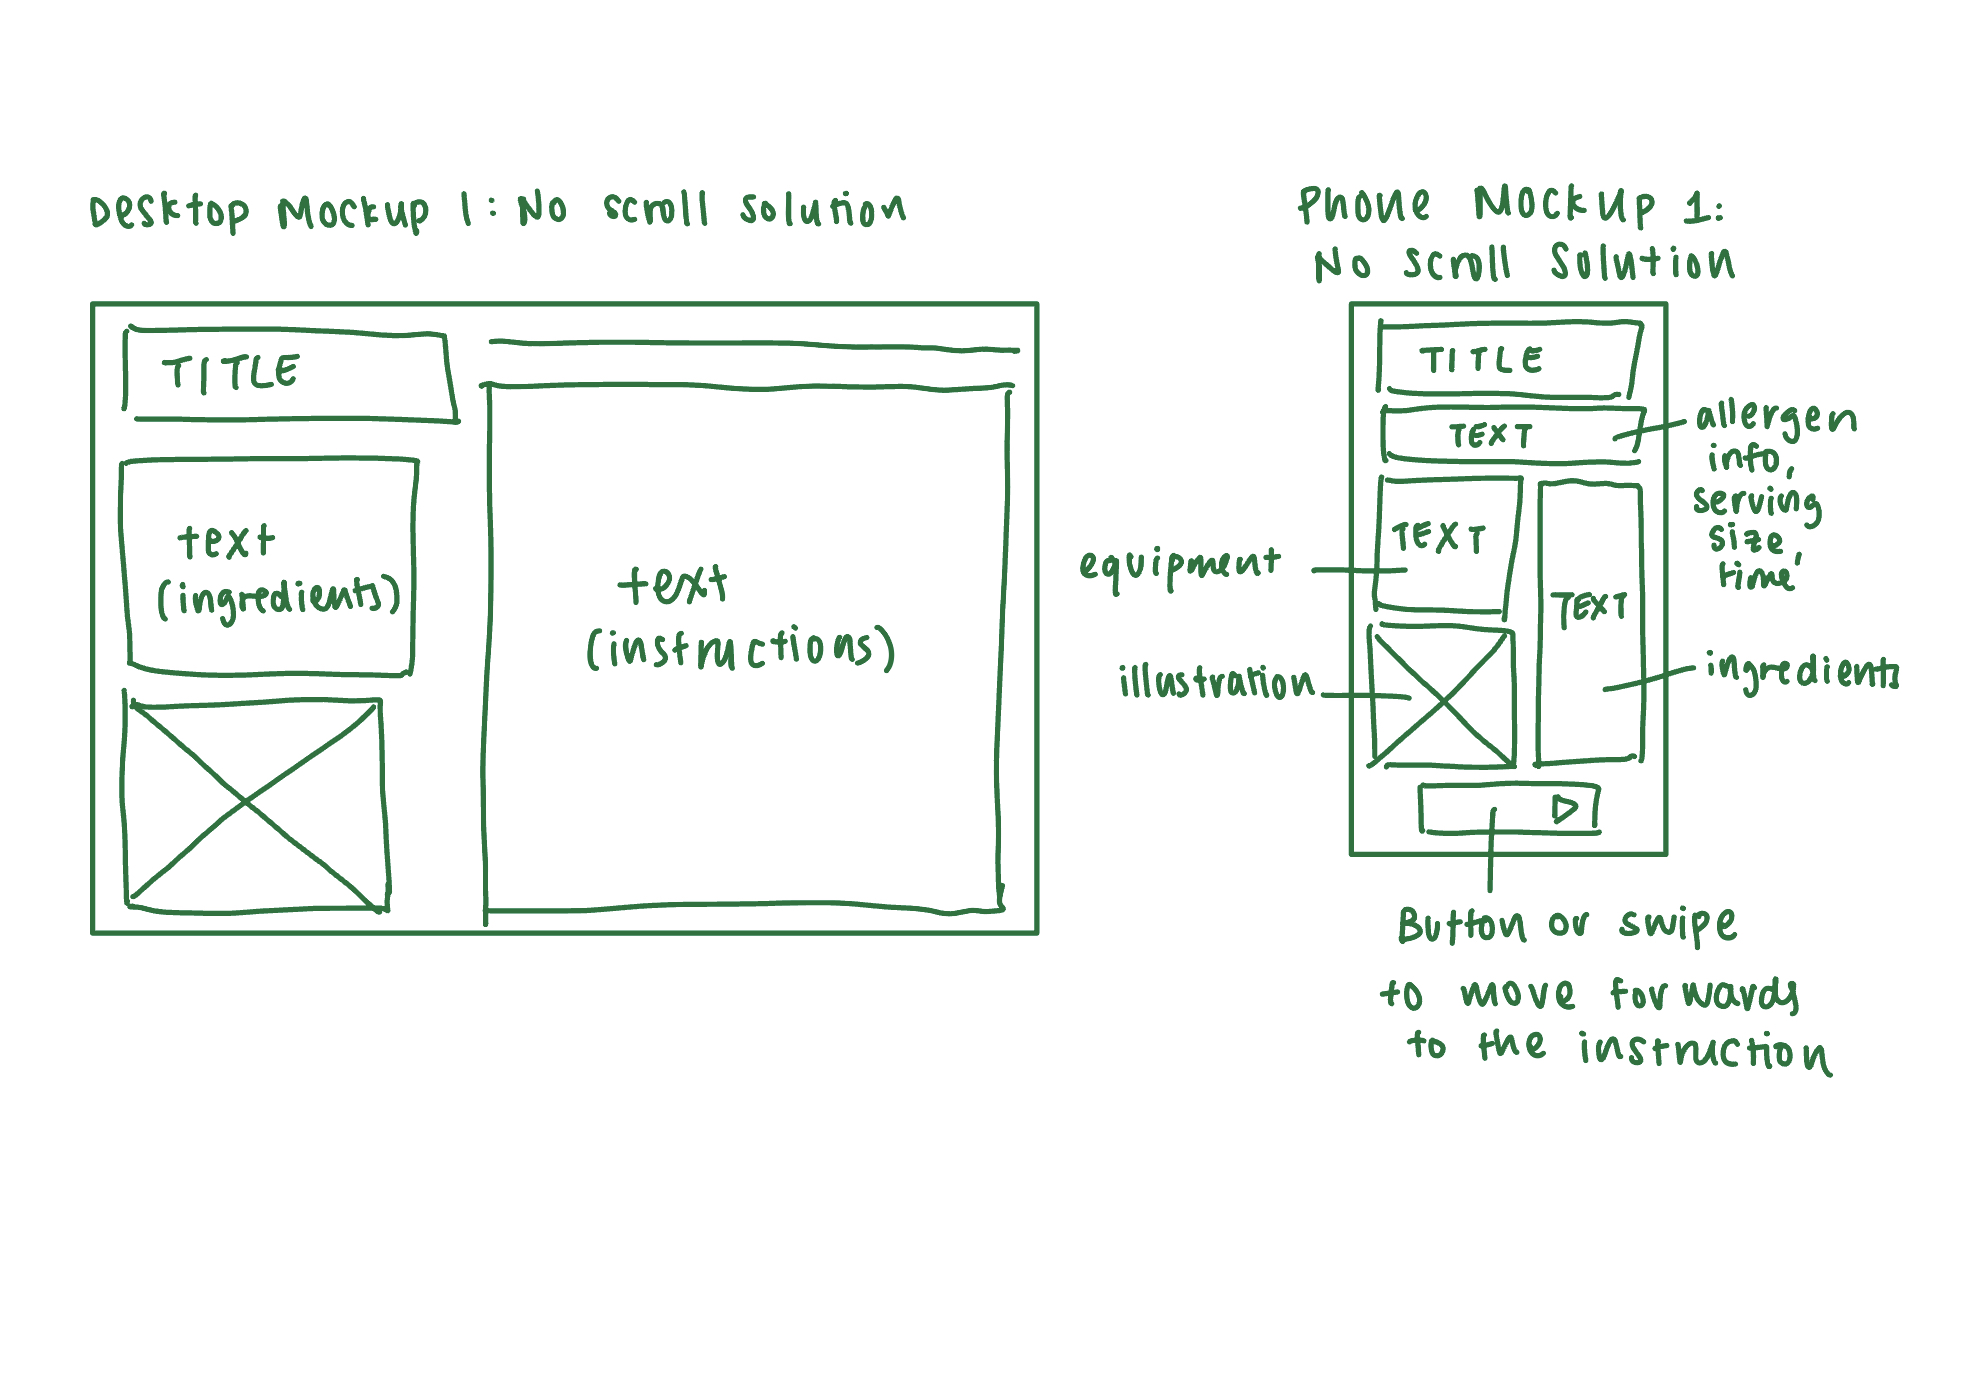
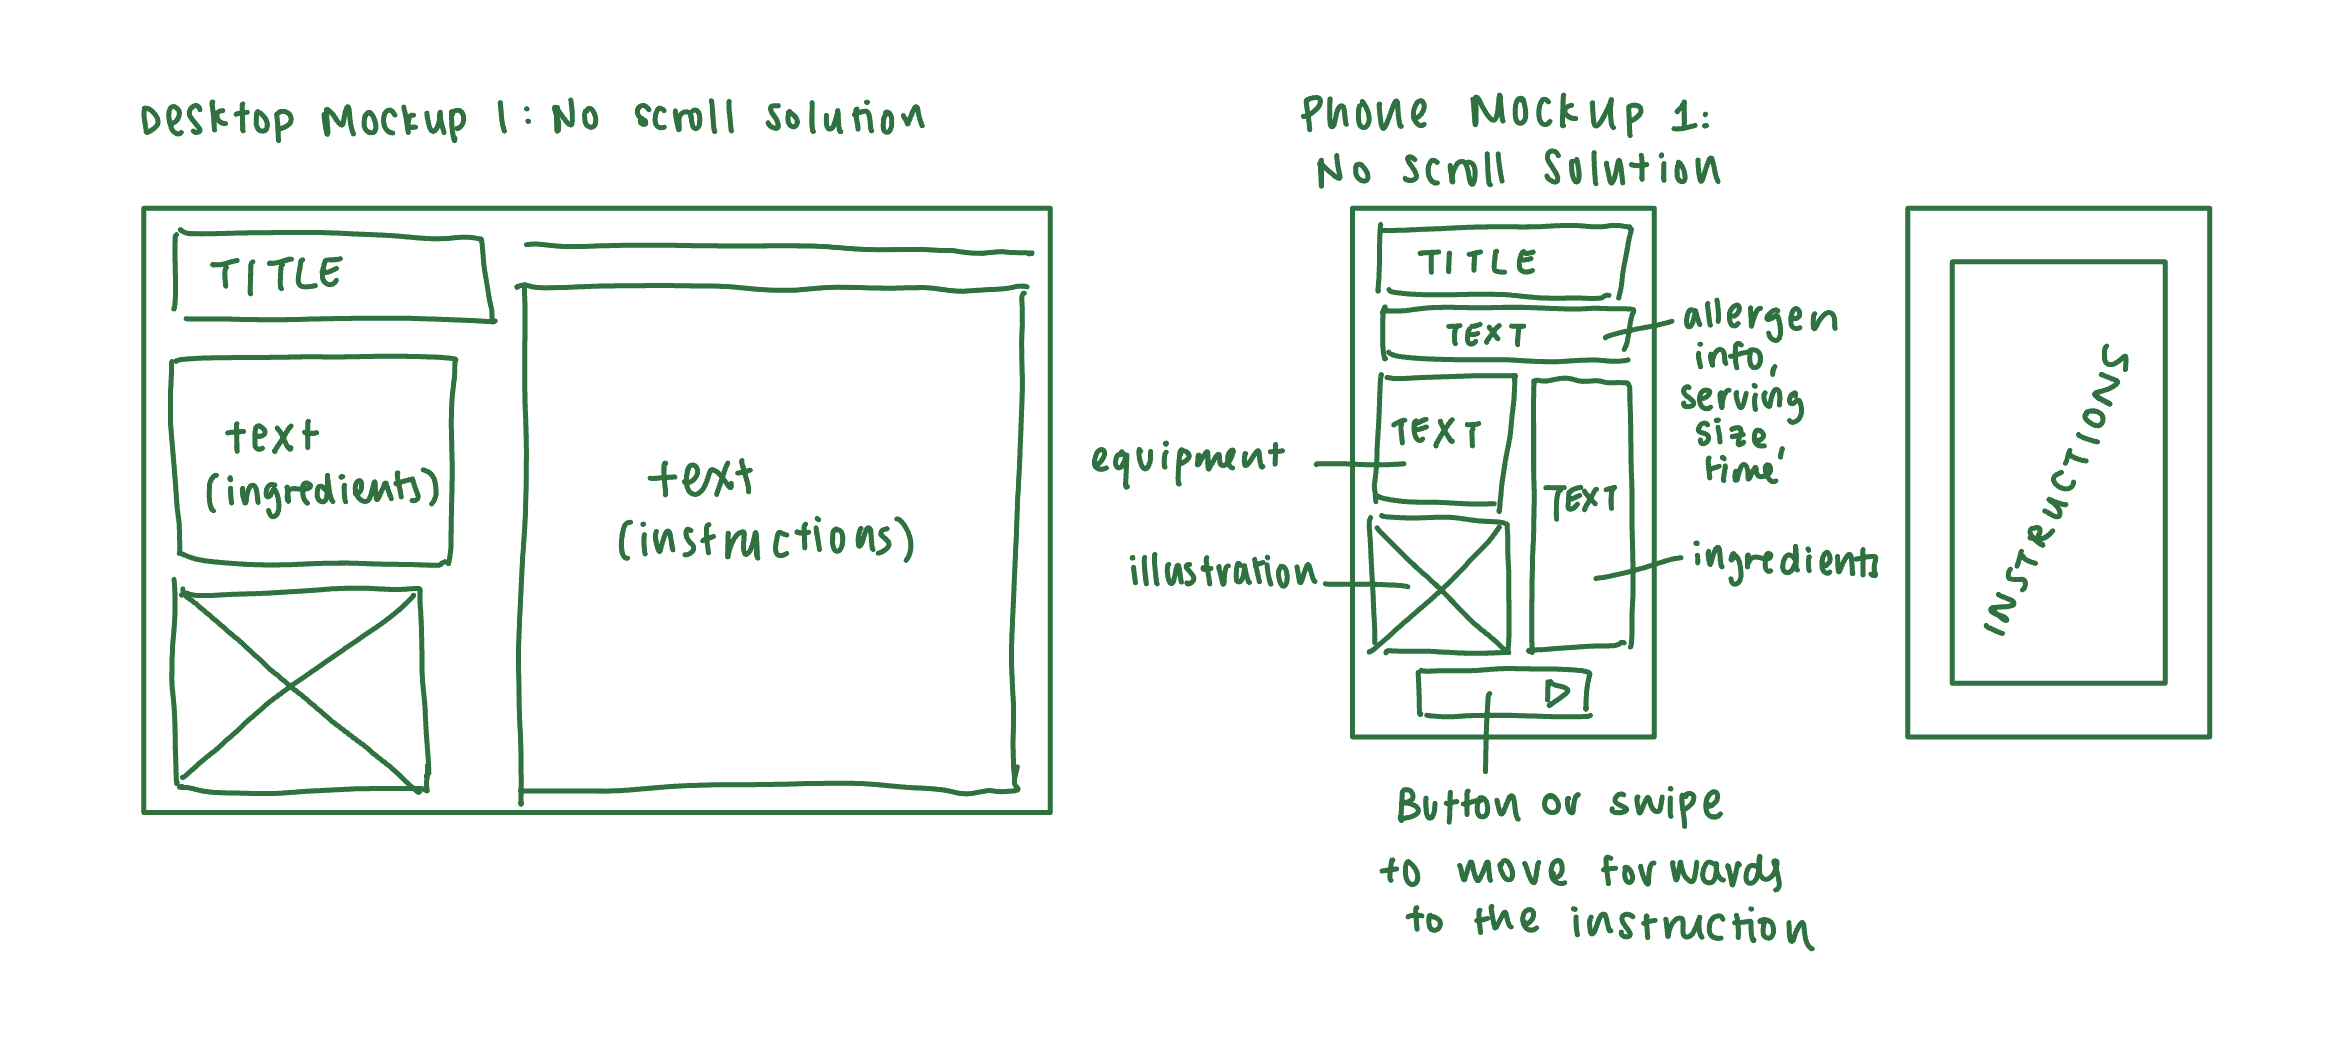
lofi sketches in

Changed region(s): [[0.0309, 0.0933, 0.9584, 0.7776], [0.5874, 0.8087, 0.7729, 0.902]]

diff --git a/recipe/lowfi-prototypes/index.html b/recipe/lowfi-prototypes/index.html
@@ -7,5 +7,7 @@
     <body>
         <h1>Concept 1: No Scroll</h1>
         <img src="../images/lofi-sketch-1.jpeg" width="100%">
+        <h1>Concept 2: Segments</h1>
+        <img src="../images/lofi-sketch-2.jpeg" width="100%">
     </body>
 </html>
